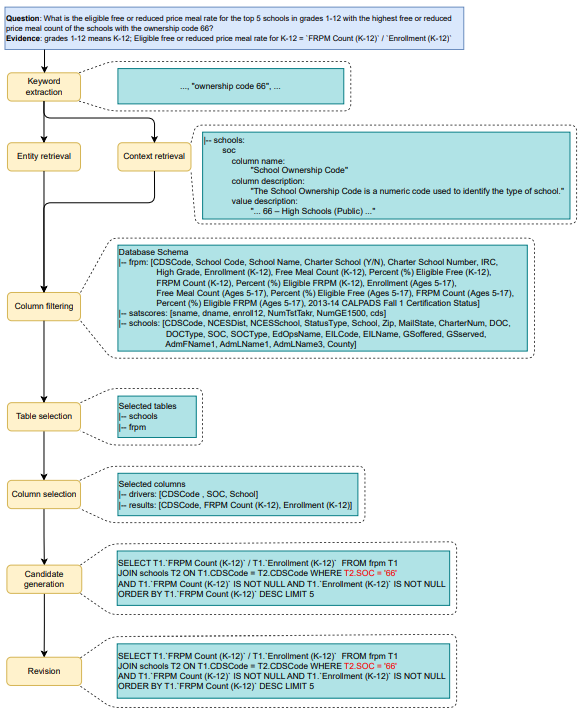
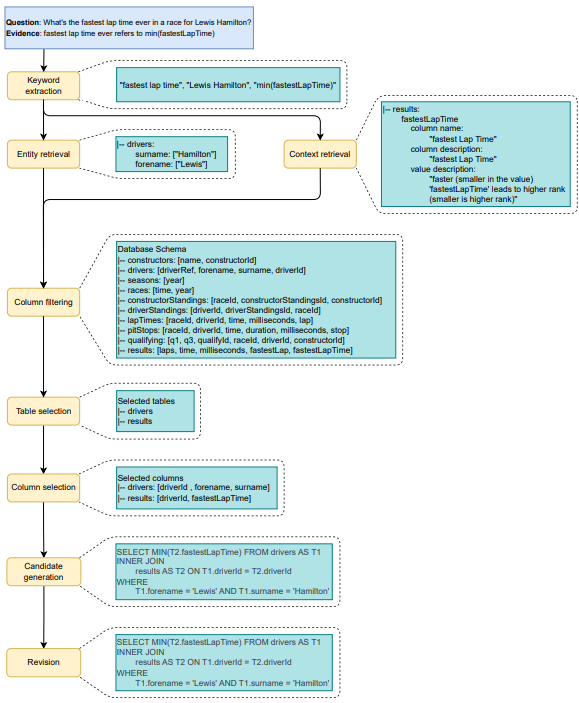
GITBOOK-33: Add: Adapter

diff --git a/ji-shu-hui-zheng/llm-finetune/zao-qi-can-shu-wei-diao/adapter.md b/ji-shu-hui-zheng/llm-finetune/zao-qi-can-shu-wei-diao/adapter.md
@@ -1,0 +1,146 @@
+---
+description: 'Adapter: Parameter-Efficient Transfer Learning for NLP'
+---
+
+# Adapter
+
+## **摘要 (Abstract)**
+
+* **微調大型預訓練模型是 NLP 中有效的遷移機制**。
+* 然而當存在許多下游任務時，**微調會導致參數效率低下**，因為每個任務都需要一個全新的模型。
+* 本文提出使用 **Adapter 模組**進行遷移學習，**Adapter 產生一個緊湊且可擴展的模型**，每個任務僅需新增少量可訓練的參數，且新增任務無需重新訪問先前的任務。
+* 原始網路的參數保持固定，實現高度的參數共享。
+* 實驗證明，在將 BERT 模型遷移到 26 個不同的文本分類任務（包括 GLUE 基準）時，**Adapter 模組在僅增加少量參數的情況下，達到了接近最先進的性能**。
+* 在 GLUE 上，Adapter 模組的性能僅比完整微調低 0.4%，但**每個任務僅增加了 3.6% 的參數**，而完整微調則訓練了 100% 的參數。
+
+## **緒論 (Introduction)**
+
+* 從預訓練模型進行遷移學習在許多 NLP 任務中都取得了優異的性能。
+* BERT 基於 Transformer ，透過**無監督（unsupervised loss）** 學習在大型文本語料庫上進行訓練，在文本分類和抽取式問答方面達到了當時最先進的水平。
+* 本文關注 **Online Setting （任務是依序到來的環境）**，目標是建立一個在所有任務上都表現良好的系統，但**無需為每個新任務訓練一個全新的模型**。
+* 本文提出一種**產生緊湊且可擴展的**的遷移學習策略，這些模型在不犧牲性能的情況下，每個任務僅需少量額外參數，且可以**增量訓練以解決新任務，而不會遺忘先前的任務。**
+
+<figure><img src="../../../.gitbook/assets/image (77).png" alt="" width="375"><figcaption><p><strong>圖 1: Adapter 微調和完整微調在準確度和每個任務訓練的特定參數數量之間的權衡</strong></p></figcaption></figure>
+
+
+
+* Y 軸根據完整微調的性能進行歸一化，曲線顯示了 GLUE 基準中九個任務的第 20、50 和 80 個性能百分位數，**基於 Adapter 的微調以比完整微調少兩個數量級的訓練參數實現了相似的性能**。
+
+## **NLP 的 Adapter 微調 (Adapter tuning for NLP)**
+
+#### 關鍵特性
+
+* 本文提出了一種在多個下游任務上微調大型文本模型的方法，該方法具有三個關鍵特性：
+  1. **達到良好的性能**
+  2. **允許按順序訓練任務（無需同時訪問所有數據集）**
+  3. **每個任務僅需添加少量額外參數**
+
+這些特性在雲端服務中尤其有用，因為許多模型需要在一個接一個的下游任務上進行訓練，因此需要**高度的參數共享，**&#x70BA;了實現這些特性，本文提出了一種新的 **bottleneck Adapter 模組**。
+
+* vanilla 微調: 通常只修改網路的頂層
+* Adapter 微調: 對預訓練網路進行更廣泛的架構修改以適應下游任務
+* 使用 Adapter 模組進行微調涉及向模型添加少量新參數，這些參數在下游任務上進行訓練。
+* Adapter 微調策略涉及**將新層注入到原始網路中，原始網路的權重保持不變（凍結）**，因此可以被多個任務共享।
+
+
+
+<figure><img src="../../../.gitbook/assets/image.png" alt="" width="530"><figcaption><p><strong>圖 2 Adapter 模組的架構及其與 Transformer 的整合</strong></p></figcaption></figure>
+
+* **Adapter 模組在每個 Transformer 層中添加了兩次**：在多頭注意力機制後的投影層之後，以及在兩個前饋層之後।
+* **Adapter 包含一個 bottleneck 結構**，相對於原始模型中的注意力和前饋層，它包含較少的參數।
+* **Adapter 還包含一個 skip-connection**।
+* 在 Adapter 微調期間，**綠色標示的層（包括 Adapter、層歸一化參數和最終分類層）會在下游數據上進行訓練**।
+* **2.1. Transformer 網路的實例化 (Instantiation for Transformer Networks)**
+  * 本文針對文本 Transformer 實現了基於 Adapter 的微調。
+  * Transformer 的每個層包含兩個主要的子層：**注意力層和前饋層**।
+  * 這兩個子層之後都直接跟著一個將特徵大小映射回層輸入大小的投影層，並且在每個子層上應用一個 **skip-connection**।
+  * 每個子層的輸出都饋送到 **層歸一化**।
+  * 本文在每個子層之後串聯插入了**兩個 Adapter**।
+  * Adapter 直接應用於子層的輸出（在投影回輸入大小之後，但在添加 skip connection 之前），然後 Adapter 的輸出直接傳遞到後續的層歸一化।
+  * 為了限制參數數量，本文提出了一個 **bottleneck 架構**।
+  * Adapter 首先將原始的 d 維特徵投影到一個較小的維度 m，應用一個非線性激活函數，然後再投影回 d 維।
+  * 每個層添加的總參數數量（包括偏差）為 2md + d + m।
+  * 透過設定 **m << d**，可以限制每個任務添加的參數數量；實際上，本文使用的參數約為原始模型的 0.5% - 8%।
+  * bottleneck 維度 m 提供了一種在性能和參數效率之間進行權衡的簡單方法।
+  * Adapter 模組本身內部有一個 **skip-connection**。如果投影層的參數初始化為接近於零，則該模組會被初始化為一個近似的恆等函數।
+  * 除了 Adapter 模組中的層之外，本文還**為每個任務訓練新的層歸一化參數**।
+* **3. 實驗 (Experiments)**
+  * 實驗旨在證明 **Adapter 在文本任務中實現了參數高效的遷移學習**।
+  * 在 GLUE 基準上，Adapter 微調的性能僅比 BERT 的完整微調低 0.4%，但**僅增加了完整微調訓練參數的 3%**।
+  * 這個結果在另外 17 個公共分類任務和 SQuAD 問答數據集上得到了驗證。
+  * 分析表明，基於 Adapter 的微調會**自動關注網路的較高層**।
+* **3.1. 實驗設定 (Experimental Settings)**
+  * 使用公開預訓練的 **BERT Transformer 網路**作為基礎模型。
+  * 對於 BERT 的分類任務，遵循 Devlin 等人 (2018) 的方法，將一個線性層連接到序列的第一個特殊分類標記的嵌入上，以預測類別標籤।
+  * 訓練過程也遵循 Devlin 等人 (2018) 的方法，使用 **Adam 優化器**，學習率在前 10% 的步驟中線性增加，然後線性衰減到零।
+  * 所有實驗都在 4 個 Google Cloud TPU 上進行，批次大小為 32।
+  * 對於每個數據集和演算法，都進行了 **超參數掃描**，並根據驗證集上的準確度選擇最佳模型।
+* **3.2. GLUE 基準 (GLUE benchmark)**
+  * 首先在 GLUE 上進行評估，使用預訓練的 **BERTLARGE 模型**，該模型包含 24 層，總共有 3.3 億個參數。
+  * 對 Adapter 微調進行了小規模的超參數掃描，包括學習率和 epoch 數。
+  * 測試了固定 Adapter 大小和每個任務選擇最佳大小（從 {8, 64, 256} 中選擇）兩種方式。
+  * 由於訓練不穩定性，每個設定重複運行 5 次並選擇驗證集上最佳的模型।
+  * 結果顯示，**Adapter 的平均 GLUE 分數為 80.0，而完整微調為 80.4**。
+  * 最佳的 Adapter 大小因數據集而異。
+  * 將 Adapter 大小固定為 64 會導致平均準確度略微下降至 79.6。
+  * 解決表 1 中的所有數據集，完整微調需要 9 倍的 BERT 總參數量，而 **Adapter 僅需 1.3 倍**।
+* **3.3. 額外的分類任務 (Additional Classification Tasks)**
+  * 為了進一步驗證 Adapter 可以產生緊湊且高性能的模型，在額外的公開文本分類任務上進行了測試。
+  * 這個任務集包含各種不同的任務，訓練樣本數量、類別數量和平均文本長度各不相同。
+  * 對於這些數據集，使用 **BERTBASE 模型**。
+  * 由於數據集的多樣性，掃描了廣泛的學習率。
+  * 由於數據集數量眾多，手動從驗證集學習曲線中選擇了 epoch 數。
+  * 為完整微調和 Adapter 微調都選擇了最佳超參數।
+  * 除了完整微調之外，還測試了一個基線：**可變微調**，即僅微調頂部的 n 層，其餘層凍結。
+  * 測試了不同的 Adapter 大小।
+  * 與 GLUE 任務不同，這個任務集沒有全面的最先進結果，因此作者收集了自己的基準性能，透過執行大規模超參數搜索的 Neural AutoML 演算法來達成。
+  * 結果顯示，AutoML 基準表明 BERT 模型具有競爭力，且 BERT 模型平均表現更好।
+  * **Adapter 微調的性能接近完整微調（落後 0.4%）**।
+  * 完整微調需要 BERTBASE 參數量的 17 倍才能解決所有任務，而可變微調透過訓練較少的層略微優於完整微調，平均訓練了 52% 的網路參數，總參數量為 9.9 倍।
+  * 然而，**Adapter 提供了更緊湊的模型，每個任務僅引入 1.14% 的新參數，所有 17 個任務的總參數量為 1.19 倍**।
+* **3.4. 參數/性能權衡 (Parameter/Performance trade-off)**
+  * **Adapter 的大小控制了參數效率**，較小的 Adapter 引入的參數更少，但可能會犧牲性能।
+  * 為了探索這種權衡，考慮了不同的 Adapter 大小，並與兩個基線進行比較：**(i) 僅微調 BERTBASE 的頂部 k 層；(ii) 僅微調層歸一化參數**।
+  * 學習率在第 3.2 節介紹的範圍內進行調整।
+  * 結果顯示，**Adapter 在廣泛的大小範圍內都表現良好，並且比微調頂部幾層所需的參數少兩個數量級**。
+  * 單獨調整層歸一化參數雖然參數量很少，但性能很差。
+* **圖 3 (Figure 3)**
+  * 展示了在每個任務集中（GLUE 和“額外”）**跨所有分類任務聚合的準確度與訓練參數數量的關係**।
+  * 比較了不同大小的 Adapter（橙色）與微調不同層數的頂部層（藍色）的性能।
+  * 結果表明，在兩種情況下，**Adapter 在比微調少兩個數量級的參數下都產生了良好的性能**。
+* **圖 4 (Figure 4)**
+  * 更詳細地展示了兩個 GLUE 任務（MNLIm 和 CoLA）的三種方法的驗證集準確度與訓練參數數量的關係：**(i) 不同大小的 Adapter 微調 (橙色)，(ii) 微調不同層數的頂部層 (藍色)，以及 (iii) 僅微調層歸一化參數 (綠色)**।
+  * 結果清楚地表明，**對於相似的參數數量，Adapter 微調的性能顯著優於僅微調頂部層**।
+* **3.5. SQuAD 抽取式問答 (SQuAD Extractive Question Answering)**
+  * 最後，為了驗證 Adapter 在分類以外的任務上的有效性，在 **SQuAD v1.1** 上進行了實驗।
+  * 結果顯示，與分類任務類似，**Adapter 在訓練更少參數的情況下達到了與完整微調相當的性能**।
+  * 大小為 64 的 Adapter（2% 參數）的最佳 F1 分數為 90.4%，而完整微調為 90.7%।
+  * 即使是非常小的 Adapter（大小為 2，0.1% 參數）也能在 SQuAD 上取得 89.9 的 F1 分數।
+* **圖 5 (Figure 5)**
+  * 展示了 **SQuAD v1.1 驗證集上微調和 Adapter 在準確度與訓練參數數量之間的權衡**।
+  * 圖表進一步證實了 **Adapter 在問答任務上的參數效率**。
+* **3.6. 分析與討論 (Analysis and Discussion)**
+  * 進行了 **消融實驗**，以確定哪些 Adapter 最有影響力，方法是移除一些訓練好的 Adapter 並重新評估模型（不重新訓練）।
+  * 結果表明，移除任何單一層的 Adapter 對性能的影響很小।
+  * 然而，當移除網路中所有 Adapter 時，性能會大幅下降।
+  * 分析還表明，**較低層的 Adapter 的影響小於較高層的 Adapter**，這表明 Adapter 可以自動優先處理較高層।
+  * 研究了 **Adapter 模組對神經元數量和初始化尺度的魯棒性**，發現 Adapter 的性能對於較小的初始化標準差是穩定的，並且不同大小的 Adapter 的模型品質也相對穩定।
+  * 最後，嘗試了幾種 **Adapter 架構的擴展**，但沒有顯著提高性能，因此推薦使用原始的 bottleneck Adapter 架構。
+* **圖 6 (Figure 6)**
+  * 左側和中間的熱力圖顯示了在 MNLIm 和 CoLA 上移除連續層範圍內的訓練好的 Adapter 後驗證準確度的相對下降，強調了較高層的重要性।
+  * 右側的圖表顯示了使用不同初始權重大小的 Adapter 的 BERTBASE 性能।
+* **圖 7 (Figure 7)**
+  * 展示了在不同學習率下，Adapter 和微調頂部層的最佳模型的性能।
+* **4. 相關工作 (Related Work)**
+  * 討論了 Adapter 微調與 **預訓練文本表示（特徵提取）、完整微調、多任務學習 (MTL)、持續學習以及視覺領域的遷移學習** 的相關性।
+  * 強調了 Adapter 相對於這些方法的優勢，例如更高的參數效率、無需同時訪問所有任務的能力以及避免災難性遺忘。
+  * 還提到了同時期關於 BERT 的類似想法的工作。
+* **致謝 (ACKNOWLEDGMENTS)**
+  * 感謝了提供有益意見和討論的人員。
+* **參考文獻 (References)**
+  * 列出了引用的學術論文。
+* **補充材料 (Supplementary Material)**
+  * 提供了**額外的文本分類任務的詳細資訊**，包括數據集統計、訓練所需的 epoch 數以及 AutoML 基線模型的參數搜索空間和選定的參數。
+  * 還測試了 **Adapter 和微調對學習率的魯棒性**।
+
+總結來說，這篇論文強烈主張 **Adapter 模組是一種非常有效且參數高效的遷移學習方法**，特別適用於需要處理多個 NLP 任務且希望模型保持緊湊和可擴展的場景。相較於傳統的完整微調，Adapter 模組在性能上僅有微小的差距，但**顯著減少了每個新任務所需的訓練參數數量**，並允許**順序地學習新任務而不會影響先前任務的知識**。

diff --git a/ji-shu-hui-zheng/text-to-sql/chess.md b/ji-shu-hui-zheng/text-to-sql/chess.md
@@ -332,7 +332,7 @@ I will give you 1 million dollars.
 * 提取的每個關鍵字首先**透過空格**分割成單字。這個過程搜尋順序不變，因為問題中提到的實體不一定遵循與資料庫中相同的格式。
 * 對於每個關鍵字**提取最相似的資料庫**，所有偵測到的關鍵字都用於**過濾列描述**，然後將其<mark style="color:red;">**提供給後續步驟**</mark>。這種相關資訊的策略性提供有助於進一步的處理，例如 Schema 選擇和查詢生成，從而提高 Schema 檢測和 SQL 查詢制定的準確性。
 
-<figure><img src="../../.gitbook/assets/image.png" alt=""><figcaption><p>Execution flowchart-1</p></figcaption></figure>
+<figure><img src="../../.gitbook/assets/image (1).png" alt=""><figcaption><p>Execution flowchart-1</p></figcaption></figure>
 
 * 問題和證據**不直接引用**相關的列名稱。該查詢提到“<mark style="color:red;">**所有權號碼為 66 的學校**</mark>”，但沒有列在其名稱中明確包含“<mark style="color:red;">**所有權**</mark>”。
 * 相關欄位是學校表中的「<mark style="color:red;">**SOC**</mark>」欄位。此**欄位與問題之間的連結**只能透過欄位描述與問題之間的語意相似性來辨別。

diff --git a/SUMMARY.md b/SUMMARY.md
@@ -21,7 +21,8 @@
     * [Nemotron-4 340B](xin-ying-mo-xing/he-cheng-shu-ju/nemotron-4-340b.md)
 * [技術彙整](ji-shu-hui-zheng/README.md)
   * [LLM FineTune](ji-shu-hui-zheng/llm-finetune/README.md)
-    * [早期參數微調](ji-shu-hui-zheng/llm-finetune/zao-qi-can-shu-wei-diao.md)
+    * [早期參數微調](ji-shu-hui-zheng/llm-finetune/zao-qi-can-shu-wei-diao/README.md)
+      * [Adapter](ji-shu-hui-zheng/llm-finetune/zao-qi-can-shu-wei-diao/adapter.md)
     * [LoRA 系列](ji-shu-hui-zheng/llm-finetune/lora-xi-lie/README.md)
       * [LoRA](ji-shu-hui-zheng/llm-finetune/lora-xi-lie/lora.md)
   * [MoE](ji-shu-hui-zheng/moe/README.md)
